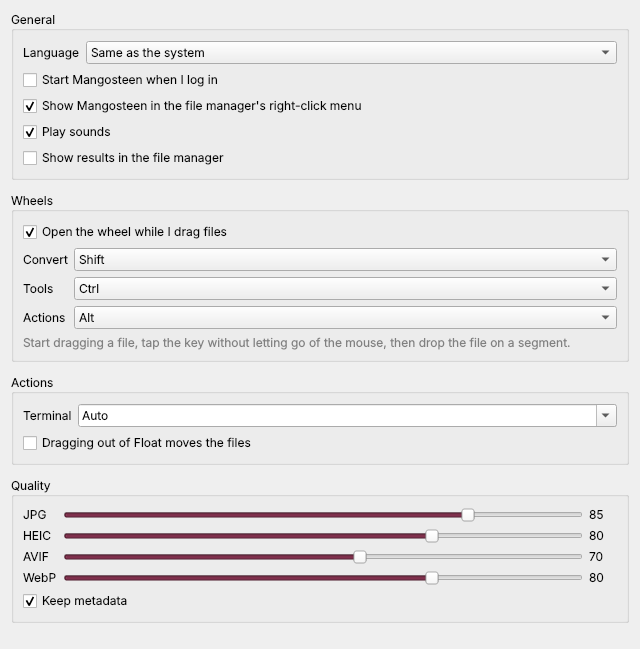
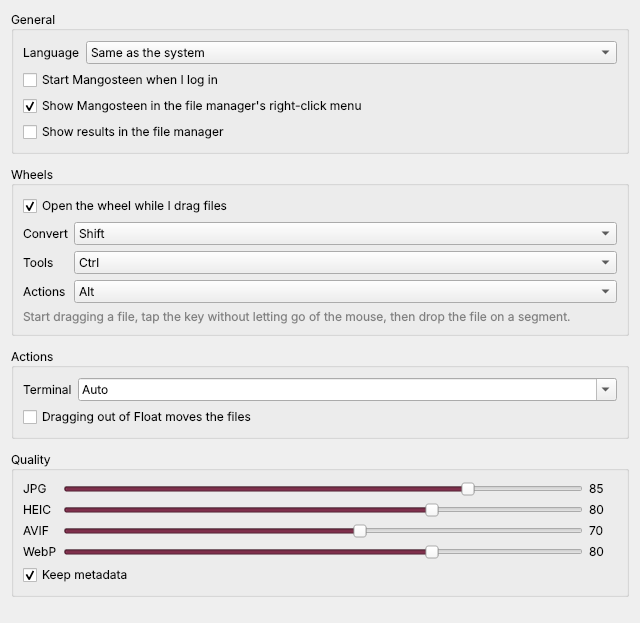
Remove sounds from the Linux version
The hover click held up the interface on some audio setups (PipeWire on Raspberry Pi OS), so the sound module, the
setting and its translation are gone. Old settings files with the setting still load. Screenshots regenerated.

Changed region(s): [[0.0, 0.0, 0.9688, 0.7014], [0.0, 0.7319, 0.9375, 0.9454]]

diff --git a/src/mangosteen/app.py b/src/mangosteen/app.py
@@ -47,7 +47,6 @@ class Application(QObject):
         self._watch_drags = watch_drags
         self._windows: dict[str, object] = {}
         self._tools: list[object] = []
-        self._sounds = None
 
         self.tray.choose_files.connect(self.choose_files)
         self.tray.toggle_shelf.connect(self.shelf.toggle)
@@ -61,7 +60,6 @@ class Application(QObject):
         self.tray.delete_result.connect(self._delete_result)
         self.tray.clear_history.connect(self.history.clear)
         self.notifier.clicked.connect(self.actions.reveal)
-        self.wheel.on_hover = self._hover_sound
         self.wheel.on_shown_without_files = self._nudge_soon
 
         self.server = ipc.Server()
@@ -194,7 +192,6 @@ class Application(QObject):
         self.notifier.notify(title, message, error=error, reveal=reveal)
 
     def _results_ready(self, outputs: list[str]) -> None:
-        self._done_sound()
         if self.settings.reveal_results and outputs:
             self.actions.reveal(outputs[-1])
 
@@ -368,23 +365,6 @@ class Application(QObject):
                 self._start_monitor()
             else:
                 self._stop_monitor()
-
-    # MARK: Sounds
-
-    def _hover_sound(self) -> None:
-        self._play("hover")
-
-    def _done_sound(self) -> None:
-        self._play("done")
-
-    def _play(self, name: str) -> None:
-        if not self.settings.play_sounds:
-            return
-        if self._sounds is None:
-            from .platform.sounds import Sounds
-
-            self._sounds = Sounds()
-        self._sounds.play(name)
 
 
 __all__ = ["Application", "QCursor", "QGuiApplication"]

diff --git a/src/mangosteen/ui/wheel.py b/src/mangosteen/ui/wheel.py
@@ -24,7 +24,6 @@ _SHADOW = 18
 
 class WheelWidget(QWidget):
     selected = Signal(object)  # WheelItem
-    hovered = Signal()
     # The files of a drag, learnt when the drag enters the wheel (the wheel was opened before they were known).
     files_entered = Signal(list)
 
@@ -79,8 +78,6 @@ class WheelWidget(QWidget):
                 self.update(self.segment_path(i).boundingRect().toAlignedRect().adjusted(-2, -2, 2, 2))
         else:
             self.update()
-        if index is not None:
-            self.hovered.emit()
 
     def highlight_for_test(self, index: int | None) -> None:
         self._set_highlight(index)
@@ -384,14 +381,12 @@ class WheelController:
         self._items_for = items_for  # (WheelKind, list[str]) -> list[WheelItem]
         self.widget = WheelWidget()
         self.widget.selected.connect(self._selected)
-        self.widget.hovered.connect(self._hover)
         self.widget.files_entered.connect(self._files_entered)
         self._paths: list[str] = []
         self._kind = WheelKind.CONVERT
         self._hide_timer = QTimer()
         self._hide_timer.setSingleShot(True)
         self._hide_timer.timeout.connect(self.hide)
-        self.on_hover = lambda: None
         self.on_shown_without_files = lambda: None
         self.drag_mode = False
 
@@ -406,9 +401,6 @@ class WheelController:
     @property
     def paths(self) -> list[str]:
         return list(self._paths)
-
-    def _hover(self) -> None:
-        self.on_hover()
 
     def _selected(self, item: WheelItem) -> None:
         paths = list(self._paths)

diff --git a/src/mangosteen/ui/settings_window.py b/src/mangosteen/ui/settings_window.py
@@ -49,10 +49,6 @@ class SettingsWindow(QWidget):
         self.menu.setEnabled(menu_available)
         self.menu.toggled.connect(lambda on: self._set("file_manager_menu", on))
         form.addRow(self.menu)
-        self.sounds = QCheckBox(L("Play sounds"))
-        self.sounds.setChecked(settings.play_sounds)
-        self.sounds.toggled.connect(lambda on: self._set("play_sounds", on))
-        form.addRow(self.sounds)
         self.reveal = QCheckBox(L("Show results in the file manager"))
         self.reveal.setChecked(settings.reveal_results)
         self.reveal.toggled.connect(lambda on: self._set("reveal_results", on))

diff --git a/src/mangosteen/core/settings.py b/src/mangosteen/core/settings.py
@@ -41,7 +41,6 @@ class Settings:
     convert_modifier: str = "shift"
     tools_modifier: str = "ctrl"
     actions_modifier: str = "alt"
-    play_sounds: bool = True
     # Show the result in the file manager when a job ends.
     reveal_results: bool = False
     jpeg_quality: float = 0.85

diff --git a/README.md b/README.md
@@ -176,7 +176,7 @@ left off the wheel; without Tesseract the text tool and the find-text button are
 ## Settings
 
 Which key opens which wheel (or none), whether the wheel opens while you drag, the language, quality of JPEG, HEIC, AVIF
-and WebP, keeping metadata, sounds, showing results in the file manager, the terminal to use, whether Float moves or
+and WebP, keeping metadata, showing results in the file manager, the terminal to use, whether Float moves or
 copies files, starting at login and the file manager menus. Everything is in one window: tray icon → **Settings…**.
 
 ## Build and test
